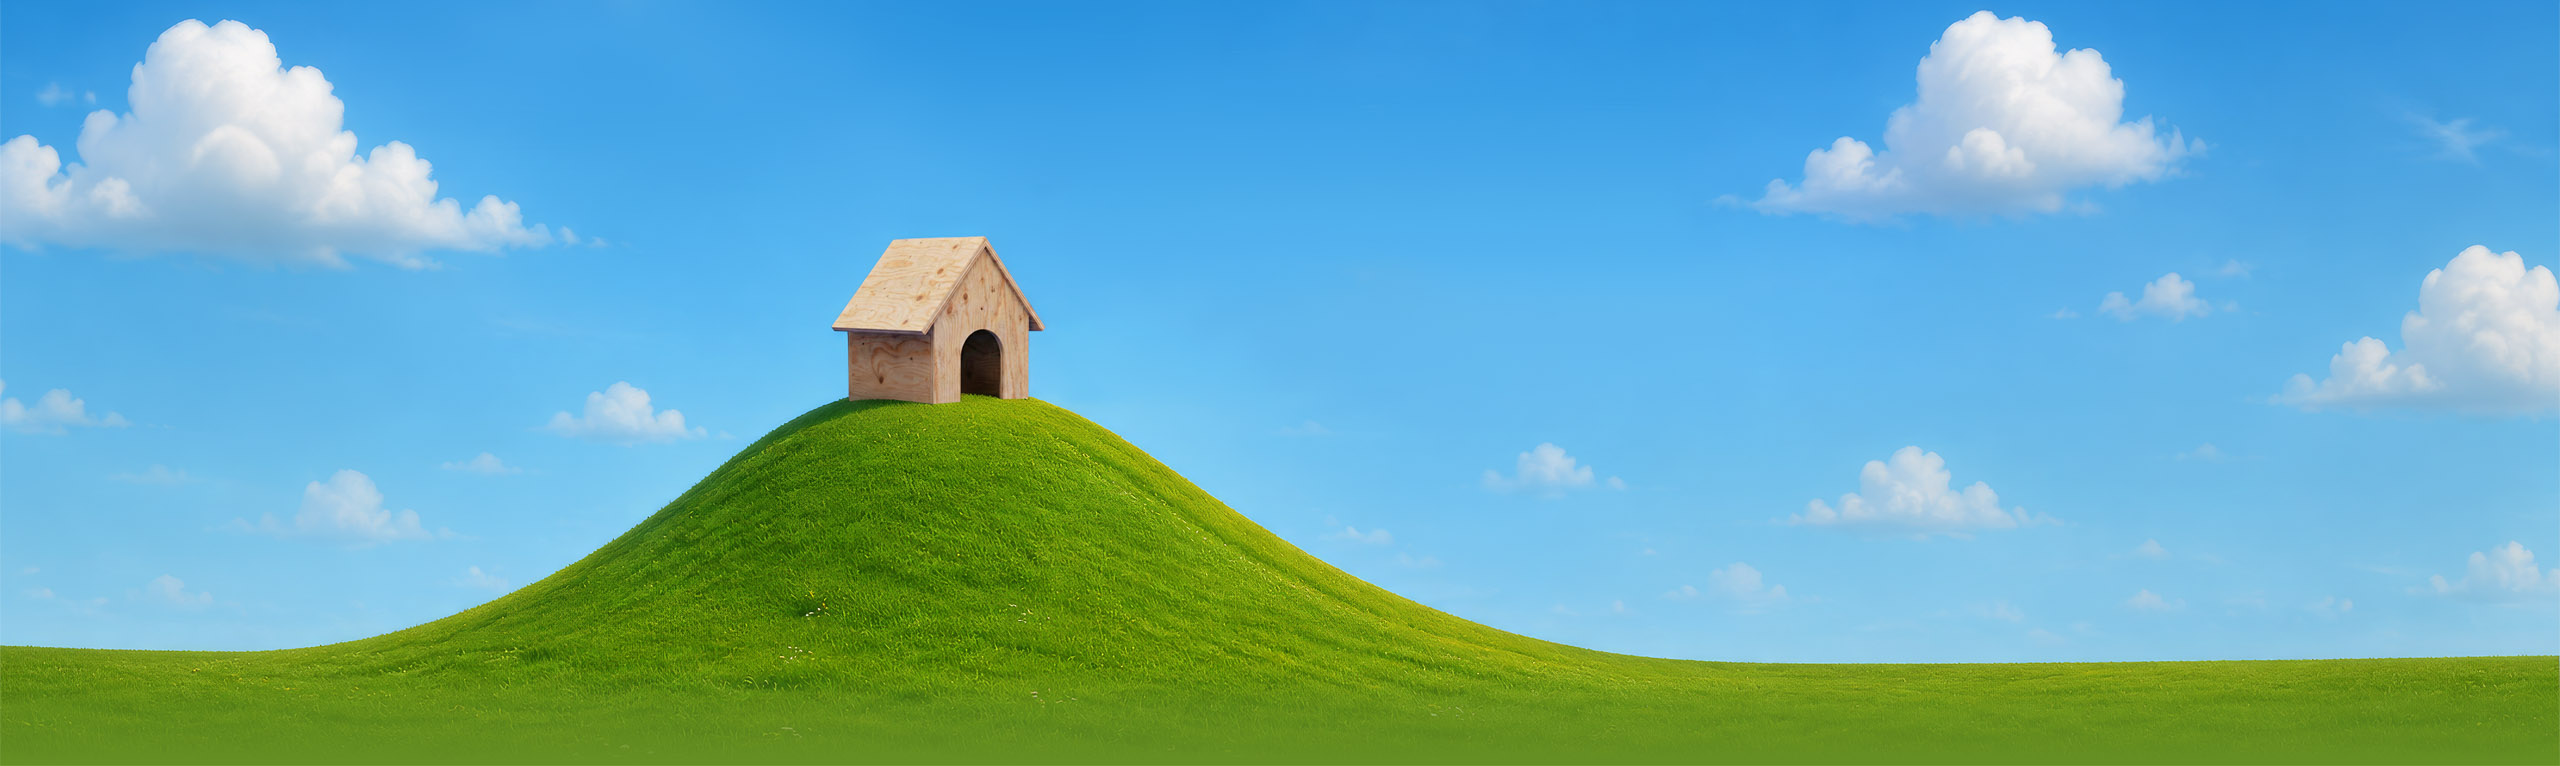
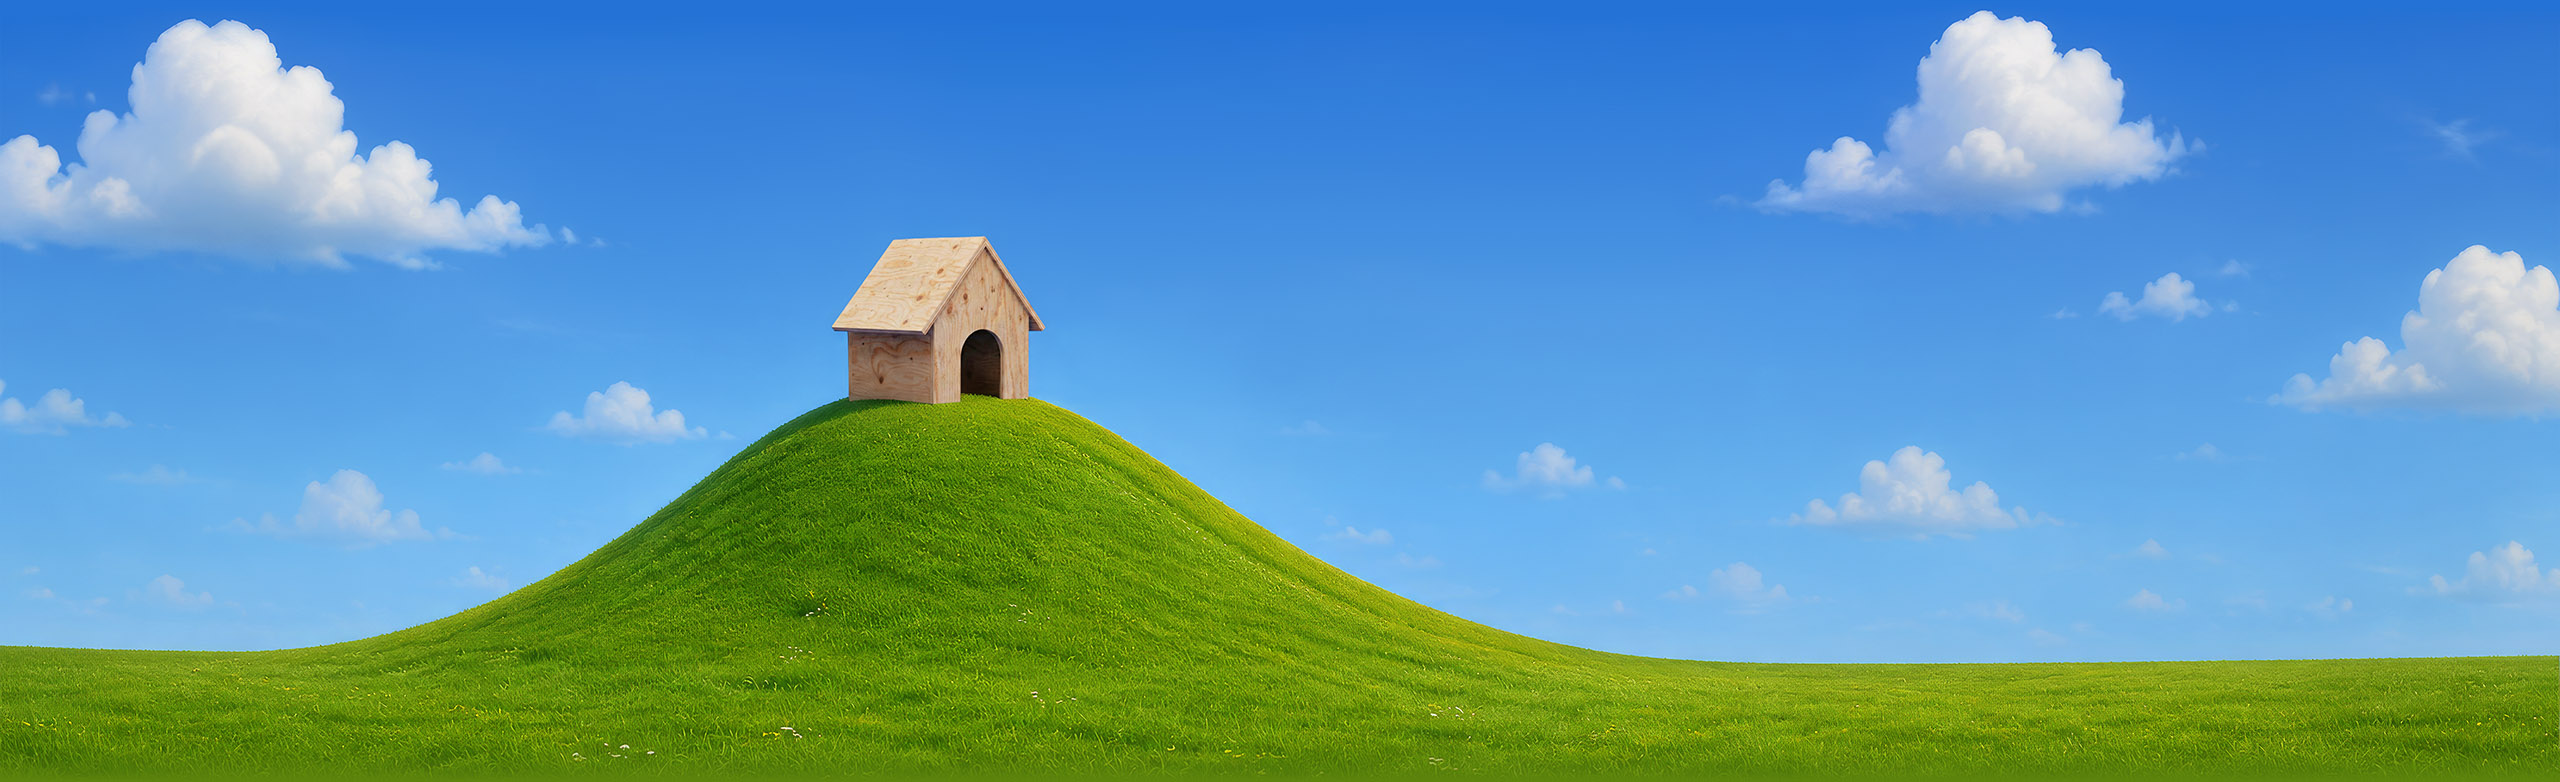
Strip down front page

diff --git a/apps/generate-docs/data/static/front.css b/apps/generate-docs/data/static/front.css
@@ -2,24 +2,52 @@
    Front page
 ------------------------------------------------*/
 
+/* Center short pages with colors that extend the hero and content backgrounds. */
+body {
+    --front-top-background: #2372d5;
+    --front-background: #5c840c;
+    --hero-title-shadow: #394860;
+    display: grid;
+    grid-template-rows: minmax(0, 1fr) auto minmax(0, 2fr);
+    min-height: 100vh;
+    min-height: 100dvh;
+    background: var(--bg-page);
+}
+
+body::before,
+body::after {
+    content: "";
+    width: 100%;
+    max-width: 2560px;
+    justify-self: center;
+}
+
+body::before {
+    background-color: var(--front-top-background);
+}
+
+body::after {
+    background-color: var(--front-background);
+}
+
 .front-page {
-    --front-accent: #4c7c25;
-    --front-background: #658f23;
+    --front-accent: #e0f0e0;
     --front-button-hover-accent: #e7e79a;
-    --front-button-hover-border: #c1cc84;
-    --front-button-hover: #799e34;
-    --hero-height: clamp(319.1667px, 63.8333vw, 766px);
+    --front-button-hover-border: #e7e79a;
+    --front-button-hover: #a9c975;
+    --hero-height: clamp(325.8333px, 65.1667vw, 782px);
     --hero-fade-height: clamp(24.1667px, 4.8333vw, 58px);
     width: 100%;
     min-width: 500px;
     max-width: 2560px;
-    min-height: 100vh;
+    min-height: var(--hero-height);
     margin: 0 auto;
     background-color: var(--front-background);
 }
 
 .front-hero {
     min-height: var(--hero-height);
+    background-color: var(--front-top-background);
     background-image:
         linear-gradient(to bottom, rgba(101, 143, 35, 0) calc(100% - var(--hero-fade-height)), var(--front-background) 100%),
         url("front-page-bg.jpg");
@@ -39,36 +67,6 @@
     margin: 0 auto;
 }
 
-.front-banner {
-    position: relative;
-    width: 100%;
-    height: 88px;
-    font-family: "robotobold", sans-serif;
-}
-
-#nav-links {
-    position: absolute;
-    right: 32px;
-    bottom: 0;
-    font-size: 18px;
-    height: 48px;
-    line-height: 42px;
-}
-.front-banner .nav-link {
-    display: inline-block;
-    padding: 0px 20px;
-    vertical-align: top;
-    border-bottom: 6px solid transparent;
-    transition: border-bottom-color 0.2s ease;
-}
-.front-banner .nav-link:hover {
-    border-bottom-color: #e8e8e8c0;
-}
-
-.front-banner a {
-    color: #e8e8e8;
-}
-
 .center-text {
     text-align: center;
     margin-left: auto;
@@ -76,57 +74,58 @@
 }
 
 .front-contents {
-    margin-top: clamp(-28.3px, calc(10px - 3.1917vw), -5.9583px);
+    margin-top: clamp(-247px, calc(148px - 32.9vw), -17px);
     padding-bottom: 26px;
 }
 
 .hero-title {
     position: absolute;
     top: 5%;
-    left: 5%;
+    left: 37%;
+    font-size: clamp(48px, calc(40.8571px + 1.4286vw), 58px);
+    width: max-content;
+    transform: translateX(-50%);
+    text-align: center;
+    text-shadow: 1px 1px 0 var(--hero-title-shadow);
 }
 
 .title {
-    font-size: clamp(27px, calc(12px + 3vw), 48px);
     font-family: "robotobold", sans-serif;
-    line-height: 1.1;
     color: #e8e8e8;
+    position: relative;
+    left: -18%;
+    font-size: 96%;
 }
 
 .subtitle {
     font-family: "robotobold", sans-serif;
-    font-size: clamp(12.15px, calc(5.4px + 1.35vw), 21.6px);
-    line-height: 1.1;
+    font-size: 38%;
     color: #e7e79a;
     position: relative;
-    left: clamp(36.5625px, calc(16.25px + 4.0625vw), 65px);
-    top: clamp(-7px, calc(-1.75px - 0.4375vw), -3.9375px);
+    left: 18%;
 }
 
 .tagline {
-    top: 35%;
-    font-size: clamp(24px, calc(12.5714px + 2.2857vw), 40px);
+    top: 29%;
+    font-size: 32px;
     position: absolute;
-    left: 44%;
+    left: 43%;
     font-family: "robotobold", sans-serif;
     line-height: 1.1;
+    text-align: center;
     color: #e8e8e8;
 }
 
 .tagline .subtag {
     font-family: 'Inter', sans-serif;
-    font-weight: 500;
-    font-size: clamp(13.2px, calc(6.9143px + 1.2571vw), 22px);
-    color: #1d87b2;
-    margin-top: clamp(9px, calc(4.7143px + 0.8571vw), 15px);
+    font-weight: 600;
+    font-size: 24px;
+    color: #3268bc;
+    margin-top: 44px;
 }
 
 .front-contents p {
     margin-bottom: 20px;
-}
-
-.front-contents .platforms {
-    margin-bottom: 24px;
 }
 
 .front-button {
@@ -137,13 +136,14 @@
     width: 256px;
     height: 67px;
     padding: 10px 34px 11px 26px;
-    border: 1px solid var(--front-accent);
+    border: 2px solid var(--front-accent);
     border-radius: 10px;
     font-family: "source_sans_3", sans-serif;
     font-size: 19px;
     text-align: left;
-    color: #255525;
-    background-color: #77a23b;
+    color: #003d00;
+    background-color: #94bc6e;
+    box-shadow: 4px 4px 8px rgba(0, 0, 0, 0.33);
     user-select: none;
 }
 
@@ -160,7 +160,7 @@
     top: 50%;
     right: 16px;
     transform: translateY(-58%);
-    font-size: 30px;
+    font-size: 44px;
     line-height: 1;
     color: #327032;
 }

diff --git a/apps/generate-docs/data/index.html b/apps/generate-docs/data/index.html
@@ -3,7 +3,7 @@
 <html data-theme="dark">
 <head>
 <meta charset="utf-8">
-<meta name="viewport" content="width=device-width, initial-scale=1">
+<meta name="viewport" content="width=device-width, initial-scale=1, viewport-fit=cover">
 <title>Plywood C++ Runtime Library</title>
 <link rel="stylesheet" href="/static/common.css">
 <link rel="stylesheet" href="/static/front.css">
@@ -12,11 +12,6 @@
   <div class="front-page">
     <div class="front-hero">
       <div class="front-hero-inner">
-        <div class="front-banner">
-          <div id="nav-links">
-            <a href="/docs"><span class="nav-link">DOCS</span></a><a href="https://github.com/preshing/plywood" target="_blank"><span class="nav-link">GITHUB</span></a>
-          </div>
-        </div>
         <div class="hero-title">
           <h1 class="title">Plywood</h1>
           <p class="subtitle">C++ RUNTIME LIBRARY</p>
@@ -26,7 +21,6 @@
       </div>
     </div>
     <div class="inner-body front-contents">
-      <p class="center-text platforms"><img src="/static/platforms.png" srcset="/static/platforms.png 1x, /static/platforms@2x.png 2x" alt="Platforms"></p>
       <p class="center-text"><a class="front-button" href="/docs">Read the docs</a></p>
       <p class="center-text"><a class="front-button" href="https://github.com/preshing/plywood" target="_blank">View on GitHub</a></p>
     </div>
